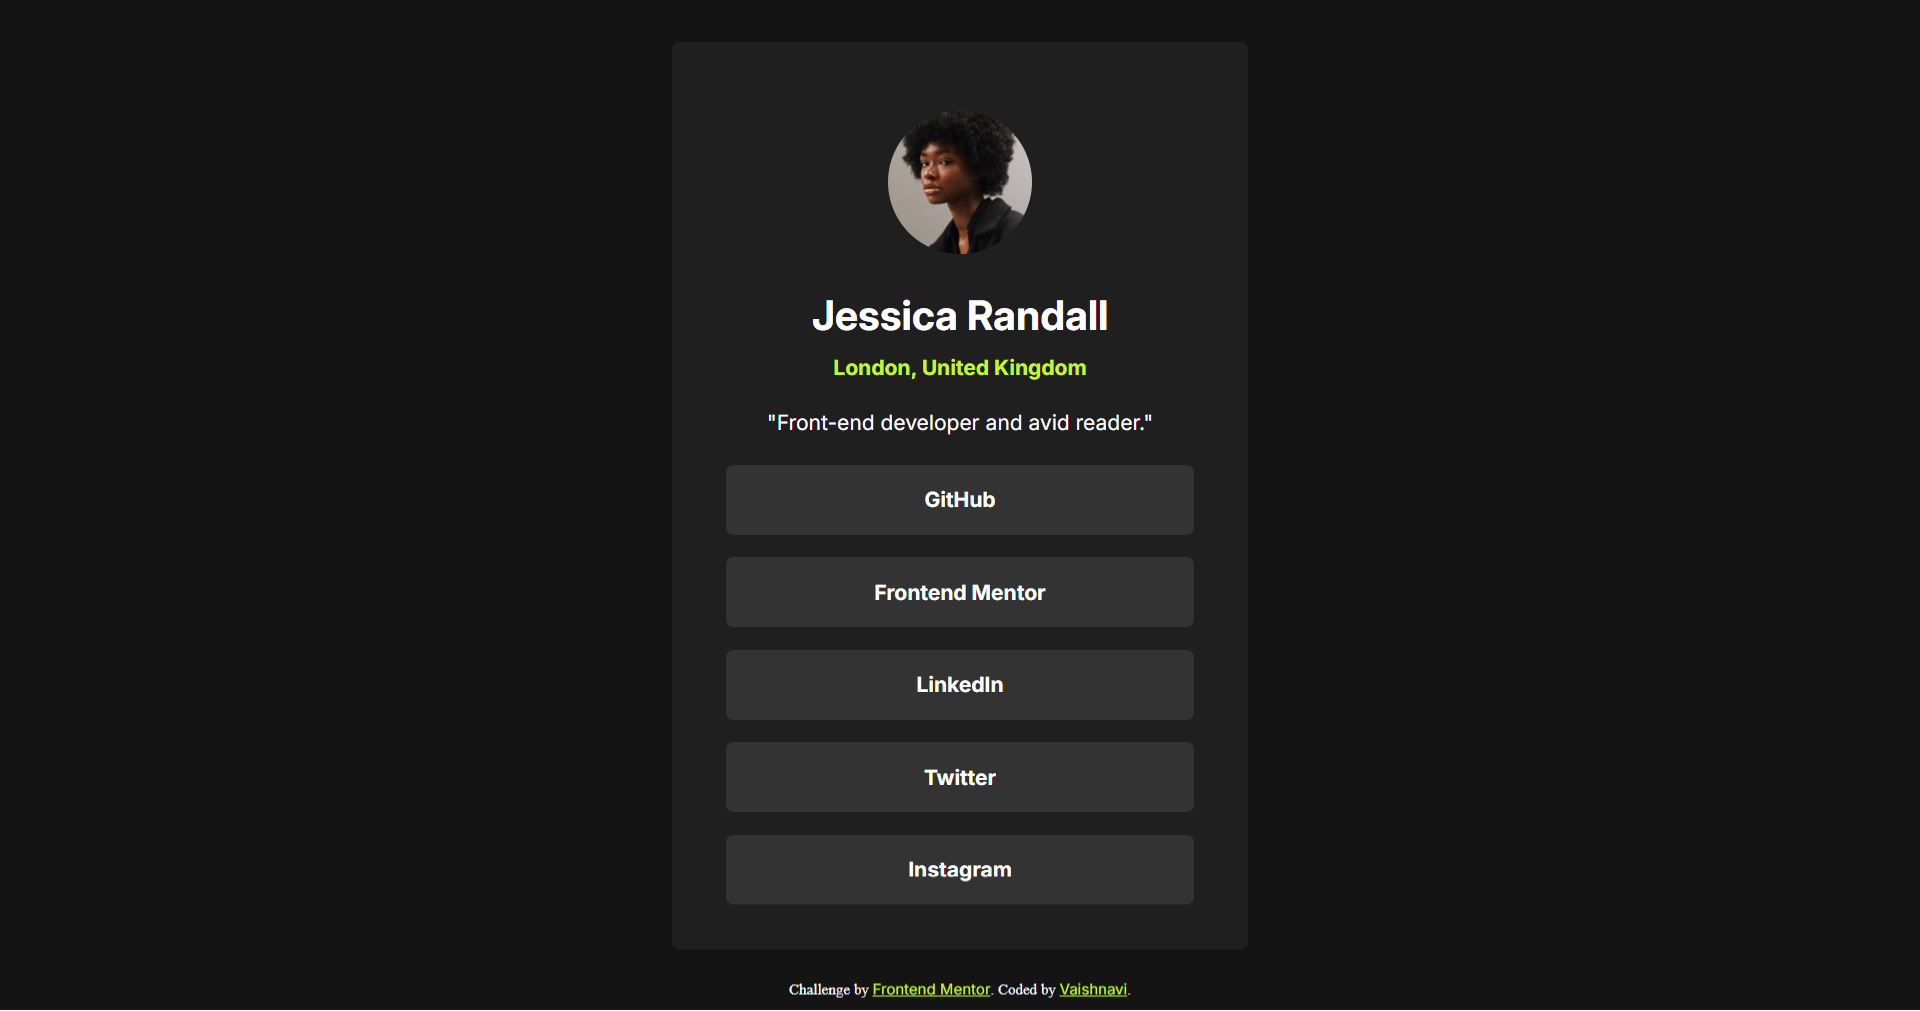
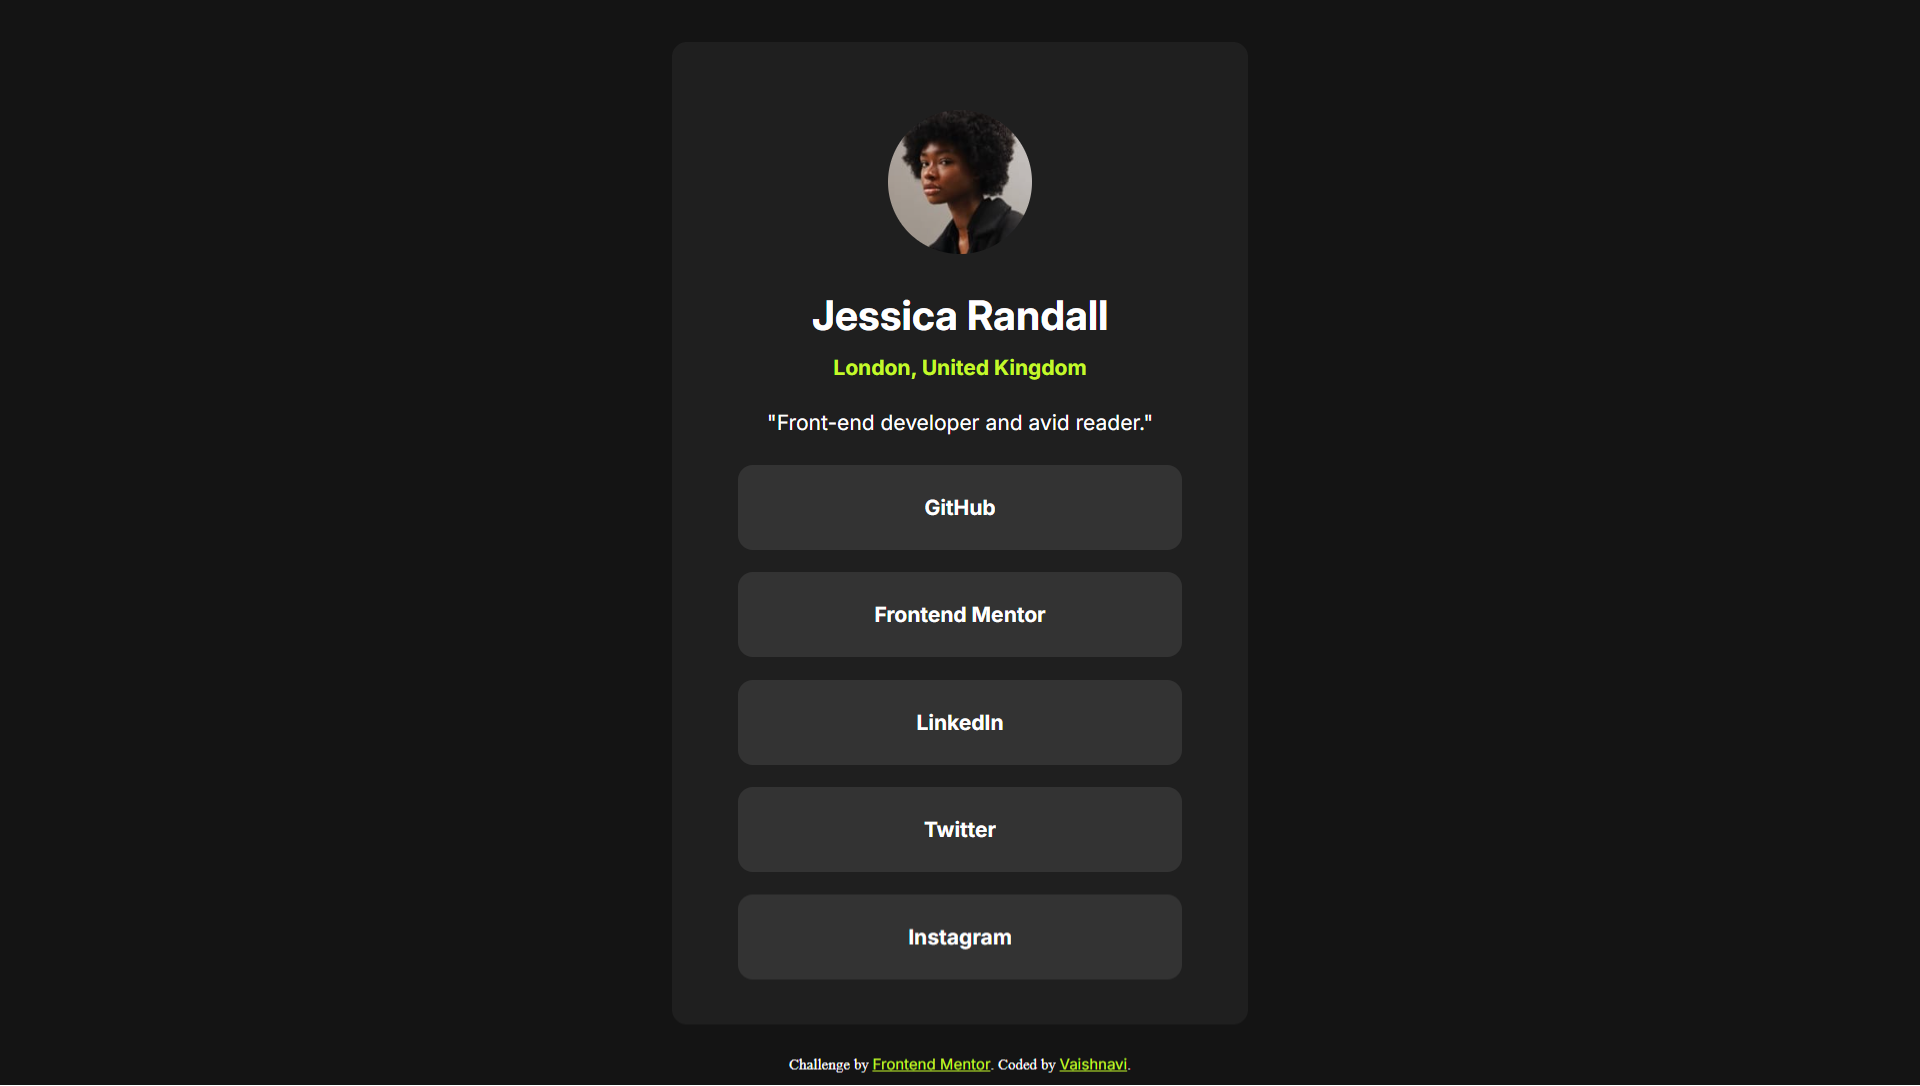
commit

diff --git a/social-links-profile-main/style.css b/social-links-profile-main/style.css
@@ -5,7 +5,7 @@ body {
 .main-div {
   width: 30vw;
   background-color: #1f1f1f;
-  border-radius: 5px;
+  border-radius: 10px;
   padding-bottom: 30px;
   margin: 20px auto;
 }
@@ -62,9 +62,9 @@ p {
   text-decoration: none;
   font-size: 14px;
   font-weight: bold;
-  padding: 15px;
-  border-radius: 5px;
-  width: 22vw;
+  padding: 20px;
+  border-radius: 10px;
+  width: 20vw;
   margin: auto;
 }
 
@@ -79,6 +79,6 @@ a:hover {
   }
 
   .links > a {
-    width: 75vw;
+    width: 65vw;
   }
 }
